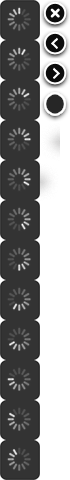
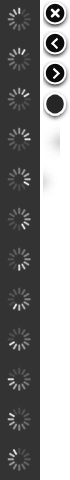
Simplify the spinner.

diff --git a/fancybox/jquery.fancybox.js b/fancybox/jquery.fancybox.js
@@ -759,9 +759,7 @@
 				clearInterval(loadingTimer);
 				return;
 			}
-
-			$('div', loading).css('top', (loadingFrame * -40) + 'px');
-
+			loading.css('background-position', '0px -' + (loadingFrame * 40) + 'px');
 			loadingFrame = (loadingFrame + 1) % 12;
 		};
 
@@ -1024,7 +1022,7 @@
 
 		$('body').append(
 			tmp	= $('<div id="fancybox-tmp"></div>'),
-			loading	= $('<div id="fancybox-loading"><div></div></div>'),
+			loading	= $('<div id="fancybox-loading"></div>'),
 			overlay	= $('<div id="fancybox-overlay"></div>'),
 			wrap = $('<div id="fancybox-wrap"></div>')
 		);

diff --git a/fancybox/jquery.fancybox.css b/fancybox/jquery.fancybox.css
@@ -24,18 +24,10 @@
 	margin-top: -20px;
 	margin-left: -20px;
 	cursor: pointer;
-	overflow: hidden;
 	z-index: 1104;
 	display: none;
-}
-
-#fancybox-loading div {
-	position: absolute;
-	top: 0;
-	left: 0;
-	width: 40px;
-	height: 480px;
-	background-image: url('fancybox.png');
+	background: url('fancybox.png');
+	border-radius: 6px;
 }
 
 #fancybox-overlay {
